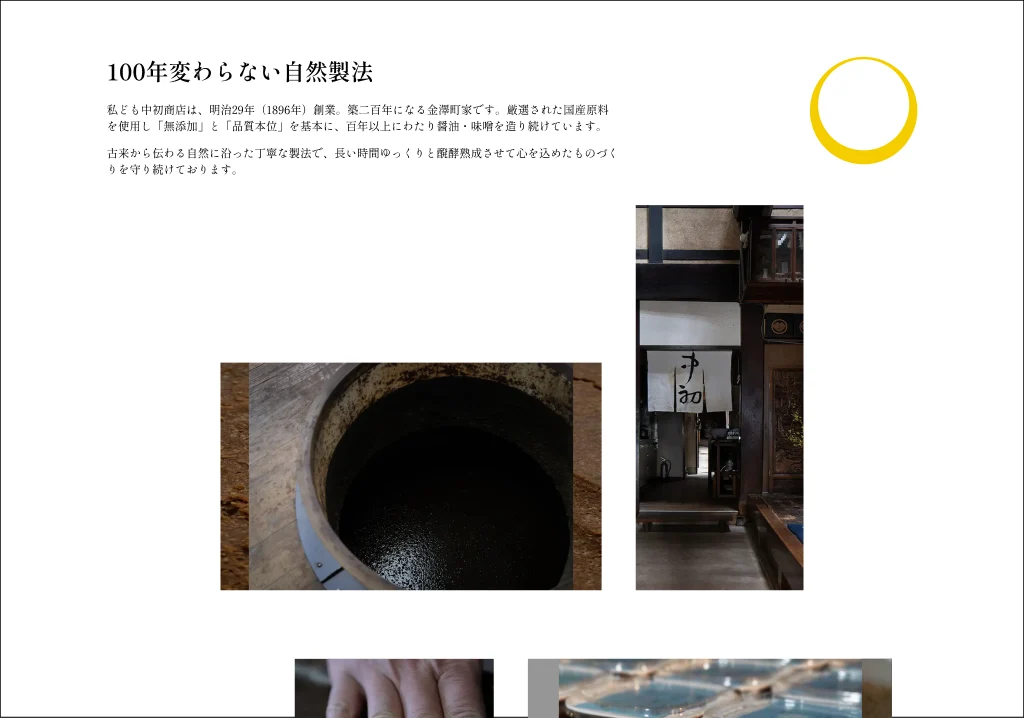
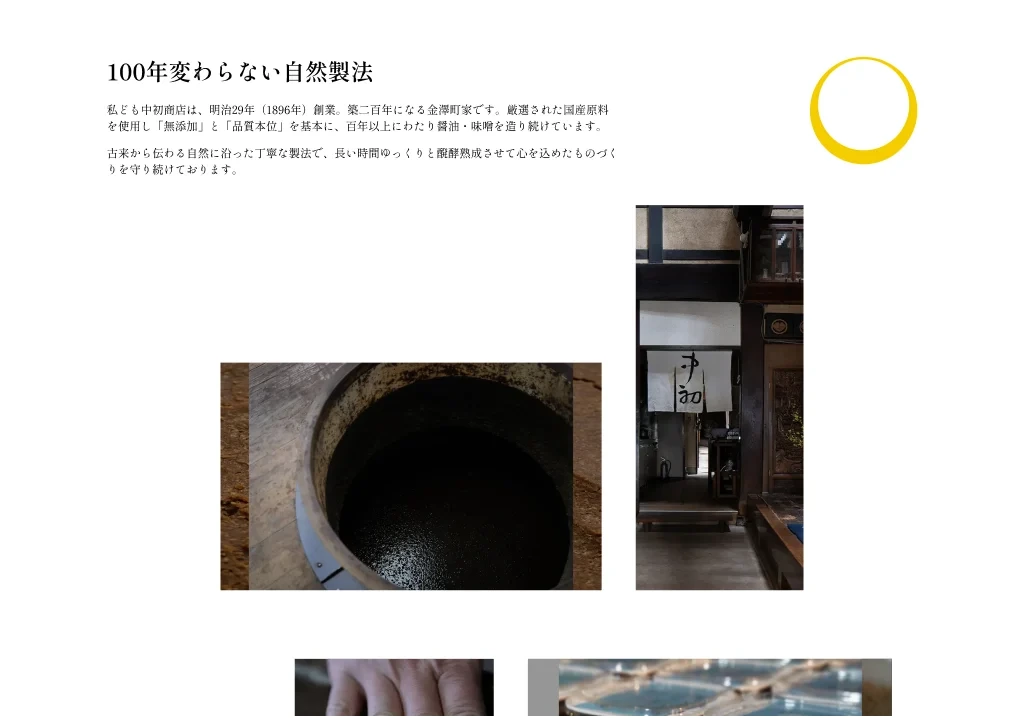
fix(nakahatsu): proximity spacing, mobile TOC redesign, tag contrast, baked border, video hairline
Claude-Session: https://claude.ai/code/session_01S4gw1gvEb38CATZttPQqNf

Changed region(s): [[0.0, 0.9805, 1.0, 1.0]]

diff --git a/src/components/work/WorkMobileToc.tsx b/src/components/work/WorkMobileToc.tsx
@@ -50,6 +50,9 @@ export default function WorkMobileToc({ items, ariaLabel, openLabel }: { items: 
     document.getElementById(id)?.scrollIntoView({ behavior: 'smooth' });
   };
 
+  const row = (on: boolean, level: 0 | 1) =>
+    `flex w-full items-center px-3 text-left text-body-sm transition-colors motion-reduce:transition-none ${level === 0 ? 'min-h-11 font-medium' : 'min-h-10 pl-6'} ${on ? 'bg-black/5 text-ink' : level === 0 ? 'text-ink' : 'text-ink-secondary'}`;
+
   if (isMenuOpen) return null;
   const visible = shown || open;
 
@@ -64,36 +67,44 @@ export default function WorkMobileToc({ items, ariaLabel, openLabel }: { items: 
         aria-label={openLabel}
         aria-expanded={open}
         aria-controls="work-mobile-toc"
-        className={`fixed right-0 top-1/2 z-40 flex -translate-y-1/2 flex-col items-end justify-center gap-2 py-4 pl-3 pr-1 transition-opacity duration-300 motion-reduce:transition-none ${visible && !open ? 'opacity-100' : 'pointer-events-none opacity-0'}`}
+        className={`fixed right-0 top-1/2 z-40 flex -translate-y-1/2 flex-col items-end justify-center gap-2 py-4 pl-3 pr-4 transition-opacity duration-300 motion-reduce:transition-none ${visible && !open ? 'opacity-100' : 'pointer-events-none opacity-0'}`}
         tabIndex={visible && !open ? 0 : -1}
       >
         {flat.map((f) => (
           <span
             key={f.id}
             aria-hidden="true"
-            className={`block h-0.5 transition-[width,background-color] duration-300 motion-reduce:transition-none ${f.level === 0 ? 'w-4' : 'w-3'} ${active === f.id ? '!w-5 bg-ink' : 'bg-black/15'}`}
+            className={`block h-0.5 transition-[width,height,background-color] duration-300 motion-reduce:transition-none ${f.level === 0 ? 'w-2' : 'w-1.5'} ${active === f.id ? '!h-[3px] !w-2 bg-ink' : 'bg-black/20'}`}
           />
         ))}
       </button>
 
-      {/* 開いているとき: 目次のカード */}
+      {/* 開いているとき: 目次のカード。幅は文字に合わせる（余白を持て余さない）。
+          近接: 小見出しは親の見出しの直下に詰め（2px）、グループの間だけ広く（12px）取る。
+          余白は 8px 刻み。タップの高さは見出し 44px・小見出し 40px。いまの節は、色と薄い背景の両方で示す。 */}
       <nav
         id="work-mobile-toc"
         aria-label={ariaLabel}
         hidden={!open}
-        className="fixed right-2 top-1/2 z-50 max-h-[70vh] w-[min(80vw,320px)] -translate-y-1/2 origin-right overflow-y-auto overscroll-contain border border-black/10 bg-white py-2 shadow-[0_12px_40px_rgba(0,0,0,0.14)] motion-safe:animate-[toc-in_160ms_ease-out]"
+        className="fixed right-4 top-1/2 z-50 max-h-[70vh] w-max min-w-[200px] max-w-[min(calc(100vw-2rem),320px)] -translate-y-1/2 origin-right overflow-y-auto overscroll-contain border border-black/10 bg-white p-2 shadow-[0_12px_40px_rgba(0,0,0,0.14)] motion-safe:animate-[toc-in_160ms_ease-out]"
       >
-        <ul className="flex flex-col">
-          {flat.map((f) => (
-            <li key={f.id}>
-              <button
-                type="button"
-                onClick={() => go(f.id)}
-                aria-current={active === f.id ? 'true' : undefined}
-                className={`flex min-h-11 w-full items-center text-left leading-snug transition-colors motion-reduce:transition-none ${f.level === 0 ? 'px-5 text-body-sm font-medium' : 'px-5 pl-8 text-body-sm'} ${active === f.id ? 'text-ink' : 'text-ink-tertiary'}`}
-              >
-                {f.label}
+        <ul className="flex flex-col gap-3">
+          {items.map((it) => (
+            <li key={it.id}>
+              <button type="button" onClick={() => go(it.id)} aria-current={active === it.id ? 'true' : undefined} className={row(active === it.id, 0)}>
+                {it.label}
               </button>
+              {it.subs?.length ? (
+                <ul className="mt-0.5 flex flex-col gap-0.5">
+                  {it.subs.map((sub) => (
+                    <li key={sub.id}>
+                      <button type="button" onClick={() => go(sub.id)} aria-current={active === sub.id ? 'true' : undefined} className={row(active === sub.id, 1)}>
+                        {sub.label}
+                      </button>
+                    </li>
+                  ))}
+                </ul>
+              ) : null}
             </li>
           ))}
         </ul>

diff --git a/src/components/work/WorkMetaGrid.tsx b/src/components/work/WorkMetaGrid.tsx
@@ -10,7 +10,7 @@ export type MetaItem = { label: string; value: string | string[] };
  *   ほかの列は内容の幅」にする。短い値（例: 「インタラクティブWebサイト」）が1文字だけ折り返すのを防ぐ。
  * - 日本語は文節の切れ目で折れる（`word-break: auto-phrase`）。さらに、値の文言に `¦` を書くと、
  *   その位置でだけ折れる（`src/lib/softBreaks.tsx`）。
- * - 値が配列のときは、1行ずつ改行して並べる。
+ * - 値が配列のときは、1行ずつ改行して並べる。近接の原則: ラベルと値の間（12px）は、値どうしの間（行間 leading-snug）より広く取り、「ラベル」と「値のまとまり」の2つに見えるようにする（2026-11-22 河野さんの指摘）。
  * - 新しい作品ページでは、メタ情報を自分で組まず、このコンポーネントを使う。
  */
 export default function WorkMetaGrid({ items, labelClassName = 'text-caption-lg' }: { items: MetaItem[]; labelClassName?: string }) {
@@ -33,8 +33,8 @@ export default function WorkMetaGrid({ items, labelClassName = 'text-caption-lg'
     >
       {items.map((it) => (
         <div key={it.label}>
-          <span className={`${labelClassName} font-space-grotesk font-semibold text-ink-tertiary mb-2 block`}>{it.label}</span>
-          <p className="text-body-lg tracking-[0.2px]">
+          <span className={`${labelClassName} font-space-grotesk font-semibold text-ink-tertiary mb-3 block`}>{it.label}</span>
+          <p className="text-body-lg leading-snug tracking-[0.2px]">
             {(Array.isArray(it.value) ? it.value : [it.value]).map((line, i) => (
               <span key={i} className="block">
                 {softBreaks(line)}

diff --git a/app/[locale]/page.tsx b/app/[locale]/page.tsx
@@ -31,8 +31,8 @@ export default function Home() {
               at once. Going through t() made the left column follow the locale,
               so /jp rendered Japanese twice. */}
           <div className="flex-1">
-            <h1 className="text-display mb-2">{enHero.name}</h1>
-            <p className="text-body-lg font-helvetica-neue mb-1">{enHero.description1}</p>
+            <h1 className="text-display mb-6">{enHero.name}</h1>
+            <p className="text-body-lg font-helvetica-neue">{enHero.description1}</p>
             <p className="text-body-lg font-helvetica-neue">{enHero.description2}</p>
           </div>
 
@@ -40,7 +40,7 @@ export default function Home() {
               text-body-lg-jp, not text-body-lg: at the same px the Japanese
               outweighs the English optically. See the token in tailwind.config.js. */}
           <div className="flex-1">
-            <p className="text-body-lg-jp font-noto-sans-jp font-light mb-1">{jpHero.description1}</p>
+            <p className="text-body-lg-jp font-noto-sans-jp font-light">{jpHero.description1}</p>
             <p className="text-body-lg-jp font-noto-sans-jp font-light">{jpHero.description2}</p>
           </div>
         </div>
@@ -66,7 +66,7 @@ export default function Home() {
             />
           }
           title={t('projects.nakahatsu.title')}
-          tags={['Shopify', 'Design System']}
+          tags={['Shopify', 'Website Design']}
           description1={t('projects.nakahatsu.description1')}
           description2={t('projects.nakahatsu.description2')}
         />

diff --git a/src/components/work/ControlledVideo.tsx b/src/components/work/ControlledVideo.tsx
@@ -18,6 +18,7 @@ export default function ControlledVideo({
   width,
   height,
   startWhenVisible = false,
+  bgClassName = 'bg-black',
 }: {
   src: string;
   poster: string;
@@ -27,6 +28,8 @@ export default function ControlledVideo({
   width: number;
   height: number;
   startWhenVisible?: boolean;
+  /** 動画の下地。明るい動画に黒を敷くと、端数の幅のとき縁に黒い細線が出る（2026-11-22）ので、動画の地の色に合わせる */
+  bgClassName?: string;
 }) {
   const ref = useRef<HTMLVideoElement>(null);
   const [playing, setPlaying] = useState(false);
@@ -80,7 +83,7 @@ export default function ControlledVideo({
       <video
         ref={ref}
         aria-label={label}
-        className="w-full rounded-media bg-black"
+        className={`block w-full rounded-media ${bgClassName}`}
         src={src}
         poster={poster}
         width={width}

diff --git a/app/[locale]/about/page.tsx b/app/[locale]/about/page.tsx
@@ -49,9 +49,9 @@ const AboutPage: React.FC = () => {
 
           {/* Heading + bilingual description */}
           <div className="flex-1">
-            <h1 className={`text-headline mb-6 ${getHeadingFontClass()}`}>About</h1>
+            <h1 className={`text-headline mb-8 ${getHeadingFontClass()}`}>About</h1>
             <div>
-              <p className={`text-body-lg ${getBodyFontClass()} mb-4`}>{t('description1')}</p>
+              <p className={`text-body-lg ${getBodyFontClass()} mb-1`}>{t('description1')}</p>
               <p className={`text-body-lg ${getBodyFontClass()}`}>{t('description2')}</p>
             </div>
 

diff --git a/app/[locale]/work/nakahatsu/NakahatsuSy.tsx b/app/[locale]/work/nakahatsu/NakahatsuSy.tsx
@@ -244,6 +244,7 @@ function ProcessIterationsFigure({ f, lang, pauseLabel, playLabel }: { f: IterPr
                   width={1280}
                   height={videos[n].height}
                   startWhenVisible
+                  bgClassName="bg-[#f7f9f4]"
                 />
               ) : (
                 <Image key={n} src={`/work/nakahatsu/process-iter-${n}.webp`} alt={f.alts[n - 1]} width={1200} height={ratio[n]} className={`h-auto w-full rounded ${set.length === 1 ? 'md:max-w-[560px]' : ''}`} />

diff --git a/src/data/cvData.ts b/src/data/cvData.ts
@@ -590,7 +590,7 @@ export const cvData: CVData = {
         jp: '個人で受託し、提案・デザイン・Shopify 実装・日英仏の多言語対応・先方との進行まで 1 人で担当。進行中・未公開。',
       },
       period: { en: '2026 - Present', jp: '2026年 - 現在' },
-      technologies: ['Shopify', 'Design System', 'Multilingual'],
+      technologies: ['Shopify', 'Website Design', 'Multilingual'],
       link: '/work/nakahatsu',
     },
     {

diff --git a/src/components/work/WorkCard.tsx b/src/components/work/WorkCard.tsx
@@ -80,7 +80,7 @@ export default function WorkCard({
             {tags.map((tag) => (
               <span
                 key={tag}
-                className="font-space-grotesk text-body leading-[1.3] px-3.5 py-1.5 rounded-lg bg-surface-muted text-ink-tertiary"
+                className="font-space-grotesk text-body leading-[1.3] px-3.5 py-1.5 rounded-lg bg-surface-muted text-ink-secondary"
               >
                 {tag}
               </span>
